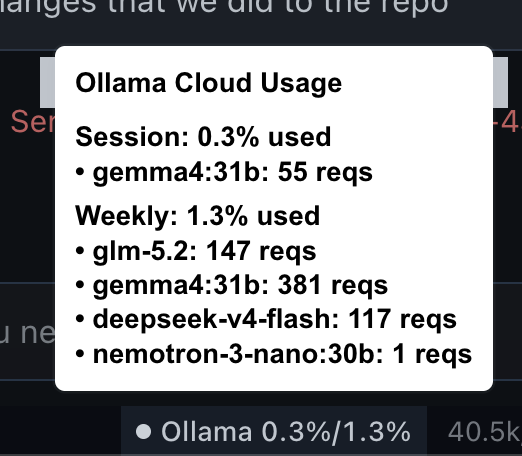
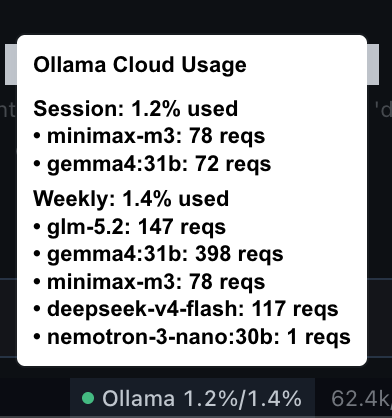
Update hover-view screenshot to show emerald 'good' dot
The old screenshot showed the white/invisible dot from the bug where
SDK StatusDot tone='good' rendered as bg-primary blue (#0053fd) and
disappeared against a white status bar. After the fix (custom emerald
span for the healthy state), the screenshot now reflects what users
will actually see: a clearly green dot, full tooltip breakdown, and
'Ollama 1.2%/1.4%' on a dark status bar.

diff --git a/README.md b/README.md
@@ -4,19 +4,8 @@ A [Hermes Agent](https://hermes-agent.nousresearch.com) desktop plugin that show
 
 ## What it shows
 
-A compact chip in the bottom status bar:
+A compact chip in the bottom status bar (emerald dot = healthy, amber = 70%+, red = 90%+):
 
-```
-● Ollama 2%/1%
-```
-
-- **First number**: session quota (5-hour window)
-- **Second number**: weekly quota (7-day window)
-- **Green dot**: under 70% usage
-- **Yellow dot**: 70–90% usage
-- **Red dot**: 90%+ usage
-
-Hover for a full breakdown (per-model request counts), click to force-refresh.
 ![Hover View](assets/hover-view.png)
 
 ## Install
@@ -46,7 +35,7 @@ Get your key at: https://ollama.com/settings
 
 ## How it works
 
-The plugin asks the Hermes gateway (via `shell.exec` RPC) to read `OLLAMA_API_KEY` from the `.env` file, then polls `https://ollama.com/api/usage` every 60 seconds. It renders a `statusBar.right` chip using the app's native `StatusDot` and `Tip` components.
+The plugin asks the Hermes gateway (via `shell.exec` RPC) to read `OLLAMA_API_KEY` from the `.env` file, then polls `https://ollama.com/api/usage` every 60 seconds. It renders a `statusBar.right` chip using the app's `Tip` and `StatusDot` components — the "healthy" state uses an emerald span (the SDK's `StatusDot tone="good"` is the app's brand blue, not green).
 
 No fork, no build step — just a single `plugin.js` file.
 
